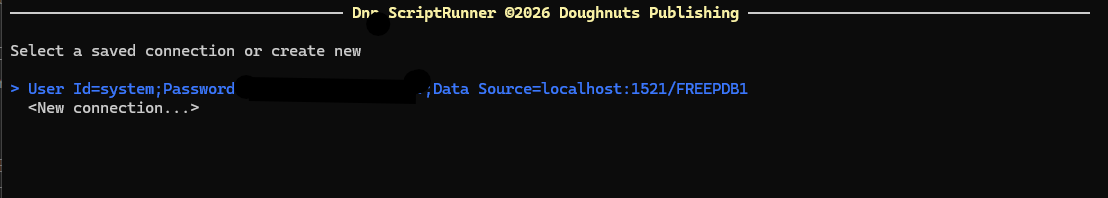
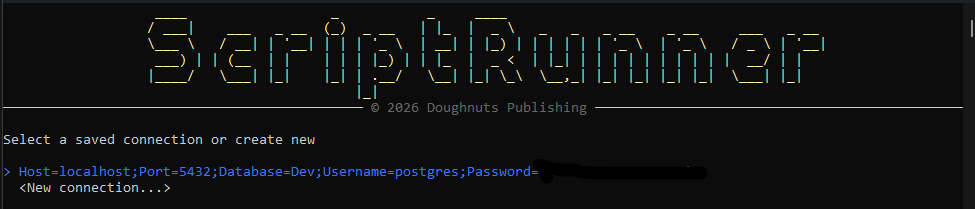
Update screen images for readme

diff --git a/README.md b/README.md
@@ -23,6 +23,7 @@ For a walkthrough of every interactive prompt, including the schema create scrip
 
 ## Build
 
+
 Restore packages and build the solution:
 
 ```bash
@@ -130,6 +131,13 @@ Script Selection Screen:
 
 End of Run Screen:
 ![Example usage screenshot](ScriptRunner/images/EndOfRun.png)
+
+Generate Create Script Screen:
+![Example usage screenshot](ScriptRunner/images/GenerateCreateScript.png)
+
+Include Data Screen:
+![Example usage screenshot](ScriptRunner/images/IncludeData.png)
+
 
 
 ## Contributing
